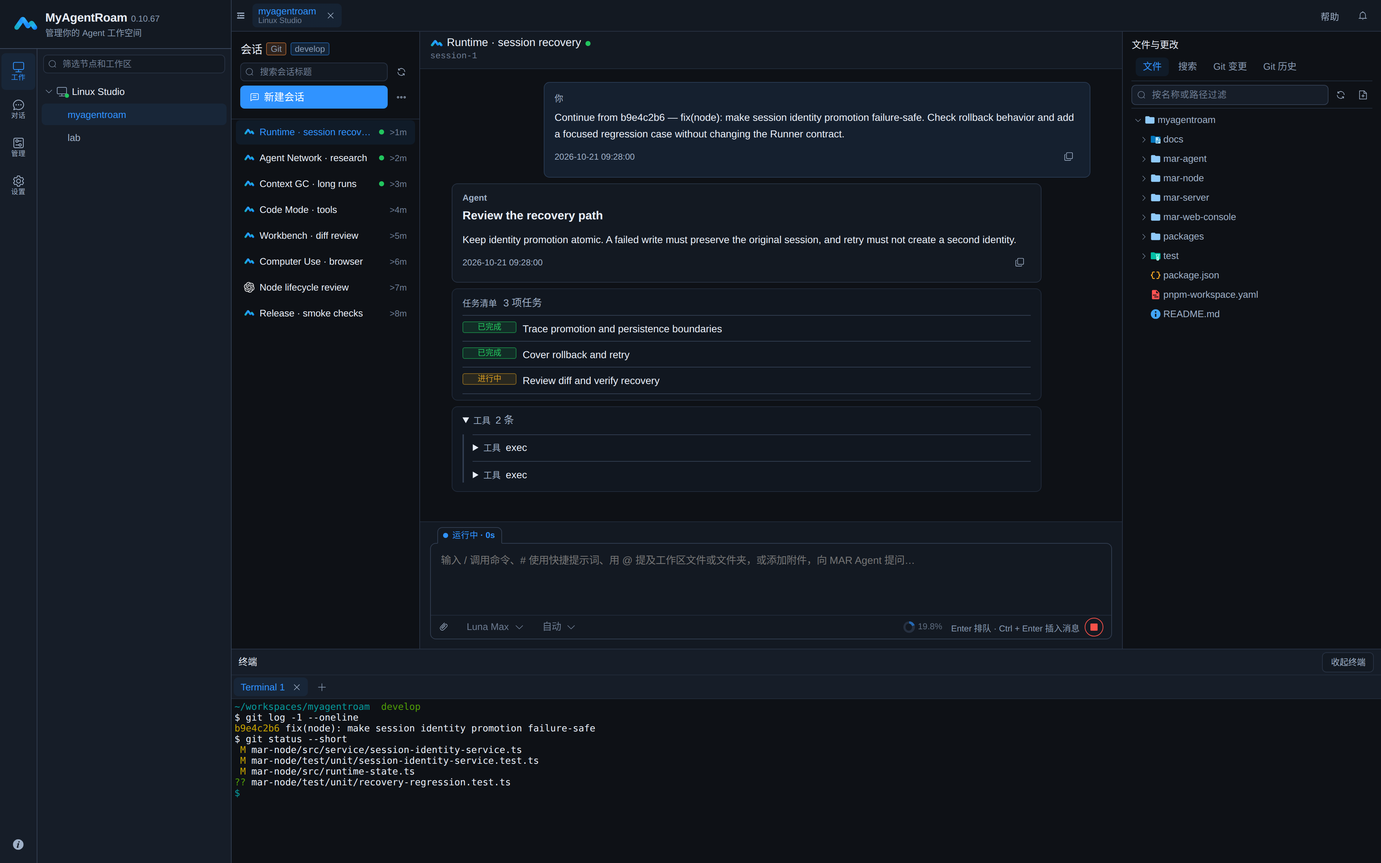
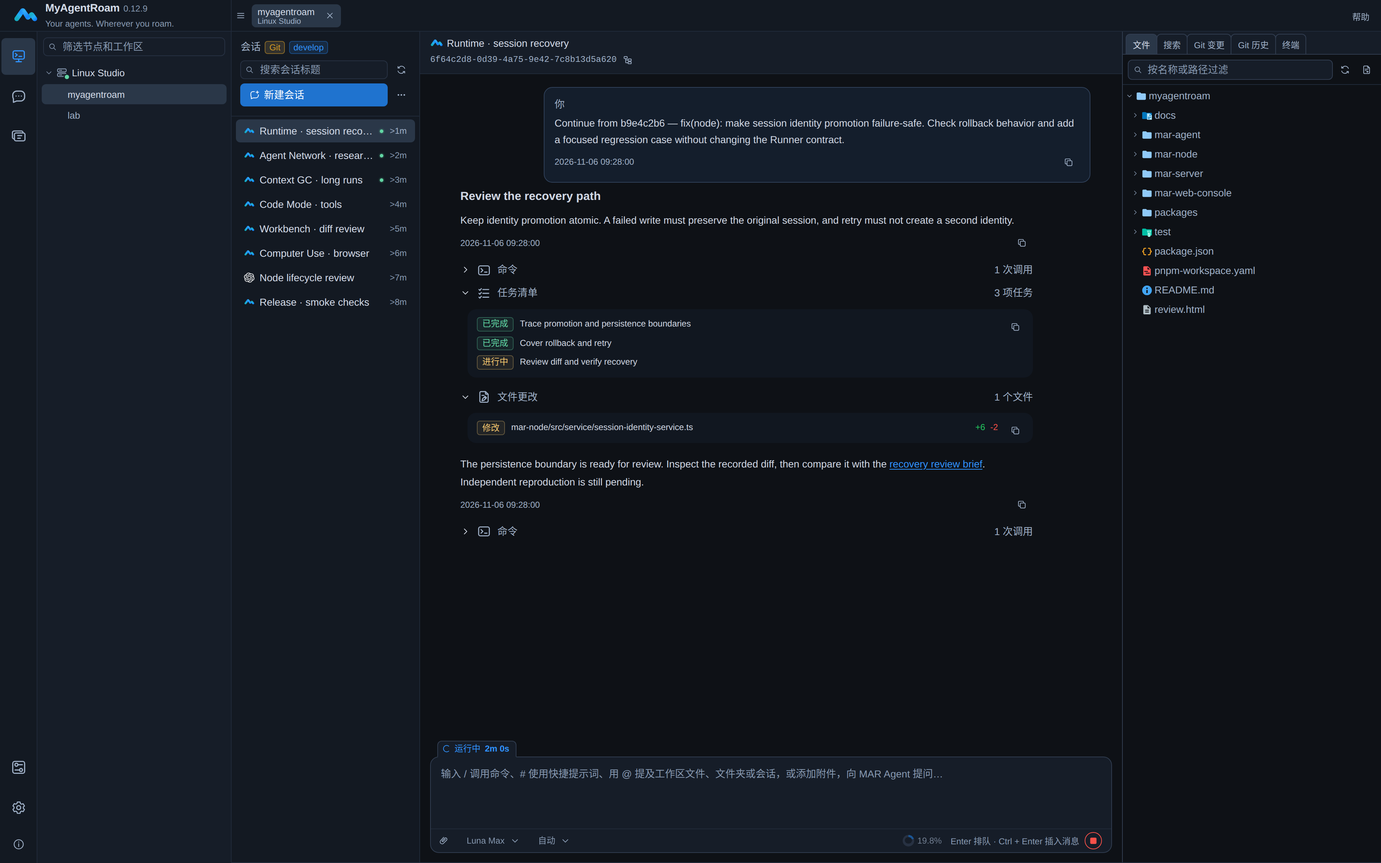
docs: refresh workbench overview and product screenshots

diff --git a/README.md b/README.md
@@ -19,7 +19,9 @@
   <img src="docs/assets/mio.png" width="160" alt="Mio, the MyAgentRoam mascot, welcoming you" />
 </p>
 
-![MyAgentRoam development: MAR Agent sessions, recovery checklist, Git changes, context usage, and a live terminal](docs/assets/workbench-hero.en-US.png)
+![MyAgentRoam workbench: continuous conversation, execution details, a task list, and project Git changes](docs/assets/workbench-hero.en-US.png)
+
+_Product screenshots show the real Web interface with synthetic demo data, not customer sessions, actual task completion records, or performance evidence._
 
 ## Agent First
 
@@ -37,24 +39,27 @@ People define goals and constraints, make key decisions, and review outcomes. Ag
 
 Closing the browser or putting it in the background does not automatically stop an active session on the Node. Use your phone for progress, notifications, files, and short replies; keep complex diffs and long terminal work on desktop. Anywhere access requires connectivity to your self-hosted Server and the relevant Node to be online for live work — it is not offline execution. [Continue from mobile](docs/help/en-US/workbench/mobile.md).
 
+<details>
+<summary>See the conversation and progress on mobile</summary>
+
+<img src="docs/assets/workbench-mobile.en-US.png" width="390" alt="Mobile workbench: session progress, task list, context usage, and Composer" />
+
+</details>
+
 ## Built for more than a single prompt
 
 <table>
 <tr>
-<td width="50%"><strong>Real projects. Real tools.</strong><br />Work in an existing Workspace with its files, dependencies, Git history, and shell. No copy-and-paste development environment.</td>
-<td width="50%"><strong>Multiple Agents. One workbench.</strong><br />MAR Agent, Codex, Claude Code, and OpenCode share one interface for history, live output, and the controls each Runner supports.</td>
+<td width="50%"><strong>Configure once. Continue across devices.</strong><br />Prepare projects and tools on your own Windows, Linux, or macOS Node, then continue from a desktop or mobile browser.</td>
+<td width="50%"><strong>Multiple Agents. One workbench.</strong><br />Read history and live output from MAR Agent, Codex, Claude Code, and OpenCode in one interface. Controls follow each Runner's capabilities.</td>
 </tr>
 <tr>
-<td><strong>Built for sustained work</strong><br />Context GC, Smart Compaction, steer, queues, Code Mode, and subagents help MAR Agent continue beyond a single prompt.</td>
-<td><strong>Steer without starting over</strong><br />Add guidance during execution, queue follow-up work, inspect tool activity, or stop and reassess. Controls follow the selected Runner's capabilities.</td>
+<td><strong>Follow the collaboration</strong><br />Persistent sessions keep their own context. Use the session tree and main/auxiliary surfaces to inspect delegation, progress, and independent review.</td>
+<td><strong>Review the actual results</strong><br />Open files and per-operation diffs from replies. Inspect Git changes, project files, or generated HTML alongside the conversation.</td>
 </tr>
 <tr>
-<td><strong>Agent Network</strong><br />Coordinate independent sessions for research, implementation, and review. Share artifacts, exchange handoffs, and inspect results through marctl.</td>
-<td><strong>Tools and spaces you can reuse</strong><br />Configure models, Skills, and MCP. Start isolated template-based conversations with attachments and deliverable artifacts.</td>
-</tr>
-<tr>
-<td><strong>Your work machines, within reach</strong><br />Use authorized Nodes from a desktop or mobile browser without recreating the project environment on every device. Windows / Linux / macOS.</td>
-<td><strong>Goals and recurring work</strong><br />Use Goal mode for multi-turn continuation, or schedule a session for recurring tasks. Review their permission and execution rules before enabling unattended work.</td>
+<td><strong>Keep long tasks moving</strong><br />MAR Agent uses Context GC, background Compact, Smart Compaction, and Code Mode to manage context and tool work across longer tasks.</td>
+<td><strong>Steer without starting over</strong><br />Add guidance, queue follow-up work, or continue with Goals and schedules. Review permission and execution rules before enabling unattended work.</td>
 </tr>
 </table>
 
@@ -62,7 +67,7 @@ Closing the browser or putting it in the background does not automatically stop 
 
 - **Context GC:** reclaim eligible historical context incrementally so long-running work does not carry every old detail into every model request.
 - **Smart Compaction:** let MAR Agent request background compaction at a suitable work-phase transition; fixed capacity protection remains independent.
-- **Visible context:** inspect reported context usage, compaction status, and plans, with a manual Compact entry when needed. These mechanisms do not promise unlimited, lossless memory.
+- **Visible context:** inspect reported context usage, GC counts and reclaimed-token statistics, compaction status, and plans, with a manual Compact entry when needed. Work can continue during background compaction; these mechanisms do not promise unlimited, lossless memory or fixed cost savings.
 
 ### Keep momentum. Keep the work reviewable.
 
@@ -78,21 +83,29 @@ Closing the browser or putting it in the background does not automatically stop 
 
 Use a coordinator to distribute work, researchers to explore alternatives, and a separate reviewer to challenge results. Sessions work in the same authorized Workspace, exchanging messages and artifacts through the existing MAR environment.
 
-![Agent Network research demo: coordinator, parallel research sessions, shared files, evidence table, and terminal](docs/assets/agent-network.en-US.png)
+![Agent Network: coordinator, independent review, and native collaboration records](docs/assets/agent-network.en-US.png)
 
 _User-defined session roles coordinate work; Agent Network is not a separate orchestration dashboard._
 
-- **Independent sessions** retain their own context and can be revisited across research waves.
+<details>
+<summary>See session relationships and activity</summary>
+
+![Session tree showing the coordinator and research, experiment, review, and evidence sessions](docs/assets/session-tree.en-US.png)
+
+</details>
+
+- **Independent sessions** persist their own history and parent relationships and can be revisited across task turns.
+- **Session trees and two work surfaces** show parents, descendants, and activity. Keep the coordinator on the main surface while inspecting another session in the auxiliary surface.
 - **Explicit handoffs** carry the question, scope, and artifact to inspect; a received message is not proof of completion.
 - **Reviewable work** stays in shared files and visible session histories. Concurrent writers still need non-overlapping scopes.
 
-Agent Network uses **marctl session coordination**. It is distinct from MAR Agent's bounded, non-recursive **subagents** inside one parent execution; neither implies automatic task ownership or a workflow engine. [Coordinate Workspace Sessions](docs/help/en-US/operations/marctl.md#coordinate-workspace-sessions).
+In the product, MAR Agent uses native **`agent_*` collaboration tools** to create, message, inspect, wait for, and stop authorized sessions. Relationships support up to three levels: root, child, and grandchild. Other Runners can coordinate through **marctl**, which also provides on-demand management of models, titles, persistent instructions, and schedules. Session relationships do not expand authorization or imply automatic task ownership or a workflow engine. [Agent collaboration](docs/help/en-US/runners/mar-agent.md#advanced-subagent-control) · [marctl session management](docs/help/en-US/operations/marctl.md#coordinate-workspace-sessions).
 
 ## MAR Agent, inside the workbench or on its own
 
 **Context GC · Smart Compaction · Steer · Code Mode · Subagents · Auto · Skills / MCP**
 
-MAR Agent provides incremental Context GC, session continuation, planning, Skills, MCP, and non-recursive subagents. Its SDK and CLI can also be used independently of Server.
+MAR Agent provides incremental Context GC, session continuation, planning, Skills, MCP, and tool orchestration. Use Agent Network in the workbench, or use the SDK and CLI independently with an optional subagent extension.
 
 The SDK, CLI, and workbench share the same MAR Agent core. Smart Compaction is a **Community capability**, not an Enterprise-only feature. Fixed capacity protection remains independent of model-requested compaction. [Configure MAR Agent](docs/help/en-US/runners/mar-agent.md).
 
@@ -100,31 +113,40 @@ The SDK, CLI, and workbench share the same MAR Agent core. Smart Compaction is a
 
 > **A long-session case study:** approximately **50 hours · 6,364 requests · 75 compactions**. Context GC was estimated to reduce cumulative context input by **20.41%** in this anonymized ERP development session. This is a case-specific observational estimate, not a guarantee of capacity, cost savings, or quality. [Method and limitations](CONTEXT_GC_CASE_STUDY.md).
 
-## Two ways to work
-
-| Start with…              | Use it for…                                                                                                 |
-| ------------------------ | ----------------------------------------------------------------------------------------------------------- |
-| **An existing project**  | Implementing features, investigating bugs, reviewing changes, or coordinating research in a real Workspace. |
-| **A published template** | Starting an isolated hosted conversation with attachments, related files, and deliverable artifacts.        |
-
-### Work mode: keep the project context
+## From execution to reviewable results
 
 Choose an authorized Node and Workspace, create or resume an Agent session, and use the project's files, Git state, and terminal in one workbench. Enterprise sharing lets authorized teammates pick up accessible work without configuring the same environment on every computer.
 
 [Explore sessions](docs/help/en-US/workbench/sessions.md) · [Files](docs/help/en-US/workbench/files.md) · [Git changes](docs/help/en-US/workbench/git-changes.md) · [Web Terminal](docs/help/en-US/workbench/terminal.md)
 
 <details>
-<summary>See the files alongside the conversation</summary>
+<summary>See project files and the auxiliary work surface</summary>
 
-![Project files beside the MAR Agent conversation and terminal](docs/assets/workbench-files.en-US.png)
+![Project file tree and unified auxiliary work surface beside the conversation](docs/assets/workbench-files.en-US.png)
 
 </details>
 
-### Conversation mode: start from a template
+### Inspect the change, not just the final summary
 
-Choose an authorized published template and begin an isolated hosted conversation. Send messages and attachments, work with related files, and retrieve the generated artifacts without first registering a project Workspace. Hosted conversations require a Linux Node with a working Bubblewrap environment; they are not an Enterprise-only capability.
+Supporting MAR Agent Nodes preserve a read-only diff for each `apply_patch` operation, including files and added/removed line counts. Later edits do not change that recorded result. This is not the task's net change and does not cover arbitrary shell writes. Use Git changes and history to inspect the current project state.
 
-[Explore hosted conversations](docs/help/en-US/workbench/hosted-conversations.md)
+<details>
+<summary>See a file change under review</summary>
+
+![Read-only diff showing the added and removed lines from one tool operation](docs/assets/workbench-review.en-US.png)
+
+</details>
+
+### Inspect deliverables beside the conversation
+
+The file window supports code and text, images, PDFs, modern Office documents, and common audio/video formats. Text editing, find, and symbol navigation follow Node capabilities. Preview saved Workspace HTML in the auxiliary browser while retaining source drafts. HTML can run scripts: preview only trusted content. This is not an isolated general-purpose browser or a full IDE. [Files and previews](docs/help/en-US/workbench/files.md) · [Per-operation changes](docs/help/en-US/workbench/conversation.md#inspect-this-file-change).
+
+<details>
+<summary>See an HTML deliverable preview</summary>
+
+![Workspace HTML deliverable preview beside the Agent conversation](docs/assets/workbench-preview.en-US.png)
+
+</details>
 
 ## Get started
 
@@ -138,7 +160,7 @@ Start with the blank-secret [Compose environment template](.env.example); config
 4. [Register a Workspace](docs/help/en-US/getting-started/register-workspace.md) and [configure MAR Agent](docs/help/en-US/runners/mar-agent.md), or prepare your chosen external Agent under the Node service account.
 5. [Start your first Agent session](docs/help/en-US/getting-started/first-agent-session.md). Confirm that the Node is online, files open, and the Agent responds.
 
-After deployment, the same site serves the home page at `/`, the workbench at `/console`, and bilingual help at `/docs/`.
+After deployment, open `/` to enter the workbench (`/console`); `/docs/` serves bilingual help.
 
 ### Self-hosted, with explicit data boundaries
 
@@ -161,7 +183,7 @@ Your Windows / Linux / macOS Node
        └── MAR Agent · Codex · Claude Code · OpenCode
 ```
 
-Server handles identity, authorization, and controlled relay. Node owns execution and Workspace storage. Ordinary Workspace files and terminals may use a Server-authorized direct data channel; hosted conversations stay relayed. [Components and data boundaries](docs/help/en-US/concepts/architecture.md).
+Server handles identity, authorization, and controlled relay. Node owns execution and Workspace storage. Ordinary Workspace files and terminals may use a Server-authorized direct data channel. [Components and data boundaries](docs/help/en-US/concepts/architecture.md).
 
 </details>
 
@@ -172,7 +194,6 @@ There is one source tree, build, and deployment baseline. Activation changes the
 | Capability                                                                  | Community           | Enterprise activation              |
 | --------------------------------------------------------------------------- | ------------------- | ---------------------------------- |
 | Workspace sessions, files, Git, terminals, and personal configuration       | Available           | Available                          |
-| Personal templates and internal hosted conversations                        | Available           | Available                          |
 | Organizations, multi-user administration, roles, and shared-resource grants | Requires activation | Available within the license scope |
 | Enterprise SSO and operation auditing                                       | Requires activation | Available within the license scope |
 

diff --git a/docs/help/workbench/mobile.md b/docs/help/workbench/mobile.md
@@ -1,15 +1,17 @@
 ---
 title: 在移动端继续工作
-lastUpdated: 2026-11-05
+lastUpdated: 2026-11-06
 ---
 
 # 在移动端继续工作
 
 会话标题栏的“更多”统一打开辅助工作面，并恢复当前工作区上次激活的标签；文件、搜索、Git 和终端均在其中选择，不再分别提供文件、终端按钮。辅助工作面覆盖顶栏以下的区域，使用返回按钮或浏览器返回可回到会话而不结束终端；重新打开时保留原有终端标签。需要结束进程时显式关闭终端标签。
 
-移动端适合查看会话、通知、文件和简短回复。顶部保留品牌 Logo，以及“工作”“对话”“最近会话”“管理”“设置”“文档”和通知入口；使用支持悬浮提示的设备指向 Logo 时可查看品牌名称和版本。点击非当前的“工作”或“对话”只切换模式并恢复已有内容，不自动打开资源树或历史菜单；没有已选内容时显示已有空态。再次点击当前“工作”可展开或收起 Node → Workspace 资源树，再次点击当前“对话”可展开或收起历史抽屉。管理和设置保留既有分类菜单行为，文件面板从会话标题栏的“更多”进入辅助工作面后选择。
+移动端适合查看会话、通知、文件和简短回复。顶部保留品牌 Logo，以及“工作”“对话”“会话与通知”“管理”“设置”和文档入口；使用支持悬浮提示的设备指向 Logo 时可查看品牌名称和版本。点击非当前的“工作”或“对话”只切换模式并恢复已有内容，不自动打开资源树或历史菜单；没有已选内容时显示已有空态。再次点击当前“工作”可展开或收起 Node → Workspace 资源树，再次点击当前“对话”可展开或收起历史抽屉。管理和设置保留既有分类菜单行为，文件面板从会话标题栏的“更多”进入辅助工作面后选择。
 
-“最近会话”和通知复用“工作 / 管理 / 设置”的侧边菜单面板，点击入口即可展开可滚动的列表。顶栏菜单不另设 X 关闭按钮，点击遮罩、按 Escape 或再次点击已展开的入口可收起；浏览器返回（包括手机浏览器侧滑返回）也会优先收起菜单，不离开当前工作面。切换菜单入口不会叠加面板；切换工作或对话模式会收起已有菜单。有未读通知时保留“全部标记已读”操作；打开通知列表本身不会将全部通知标记已读。新通知的短暂预览不会自动打开完整面板，也不会把通知标记为已读。
+“会话与通知”统一打开包含“最近会话”和“通知”两个页面的自定义面板，不再保留独立铃铛；图标右上数字表示未读通知，右下绿点表示有普通会话正在运行。有未读通知时默认打开“通知”，否则打开“最近会话”。可点击图标或使用 `Ctrl/Cmd+Shift+E` 开合，点击外部或按 Escape 也可关闭，不响应悬停开合。
+
+工作、管理和设置等顶栏菜单不另设 X 关闭按钮，点击遮罩、按 Escape 或再次点击已展开的入口可收起；浏览器返回（包括手机浏览器侧滑返回）也会优先收起菜单，不离开当前工作面。切换菜单入口不会叠加面板；切换工作或对话模式会收起已有菜单。有未读通知时保留“全部标记已读”操作；打开通知列表本身不会将全部通知标记已读。新通知的短暂预览不会自动打开完整面板，也不会把通知标记为已读。
 
 浏览器返回也会优先关闭当前会话列表、文件或终端工具层，以及最上层文件、图片预览或任务弹窗，保留背后的工作面。编辑中的退出继续遵循该界面的原有提示；若出现放弃修改确认，再次返回会取消确认并保留修改。关闭预览不会下载或删除文件，收起终端不会结束进程。图库横滑、图片缩放和内容横向滚动不是返回操作；系统文件选择器等浏览器原生界面仍由系统处理。
 

diff --git a/docs/help/en-US/workbench/mobile.md b/docs/help/en-US/workbench/mobile.md
@@ -1,13 +1,15 @@
 ---
 title: Continue on Mobile
-lastUpdated: 2026-11-05
+lastUpdated: 2026-11-06
 ---
 
 # Continue on Mobile
 
 Mobile Workbench keeps the current Agent conversation as the main Work surface. Selecting **Work** or **Chat** when that mode is not active switches modes and restores the existing content without opening a resource or history menu. If nothing is selected, the existing empty state is shown. Selecting the active **Work** entry toggles the Node → Workspace resource tree; selecting the active **Chat** entry toggles its history drawer. Admin and Settings retain their existing category-menu behavior. Select **More** in the conversation title bar to reopen the auxiliary work surface at its last active tab. Choose Files, Search, Git, or Terminal within that surface instead of separate title-bar buttons.
 
-**Recent Sessions** and **Notifications** open a scrolling list directly in the side menu used by Work, Admin and Settings. Top-bar menus have no additional X close button; use the scrim, Escape, or the active top-bar entry to dismiss them. Browser Back, including the browser's edge-swipe back gesture, closes the menu before leaving the current work surface. Switching menu entries replaces the current panel rather than stacking panels; switching to Work or Chat closes existing menus. **Mark all as read** remains available when there are unread notifications. Opening the list alone does not mark all notifications read. Brief previews of new notifications do not automatically open the full panel or mark notifications read.
+The **Sessions & notifications** icon opens one custom panel with separate **Recent Sessions** and **Notifications** tabs; there is no separate bell. Its upper-right number counts unread notifications, and its lower-right green dot indicates running workspace sessions. Each opening starts on Notifications when unread notifications exist, or Recent Sessions otherwise. Click or tap the icon, or use `Ctrl/Cmd+Shift+E`, to toggle it; click outside or press Escape to close. Hovering does not open or close it.
+
+Other top-bar menus, such as Work, Admin, and Settings, have no additional X close button; use the scrim, Escape, or the active top-bar entry to dismiss them. Browser Back, including the browser's edge-swipe back gesture, closes the menu before leaving the current work surface. Switching menu entries replaces the current panel rather than stacking panels; switching to Work or Chat closes existing menus. **Mark all as read** remains available when there are unread notifications. Opening the list alone does not mark all notifications read. Brief previews of new notifications do not automatically open the full panel or mark notifications read.
 
 Browser Back also dismisses the current session, file or terminal tool layer, or the topmost file/image preview or task dialog, keeping the underlying work surface. Editing follows the existing close policy. If a discard confirmation appears, Back cancels that confirmation and preserves the edits. Closing a preview does not download or delete a file, and hiding Terminal does not end its process. Gallery navigation, image zoom and horizontal content scrolling are not back gestures. Native browser or system dialogs retain their own behavior.
 

diff --git a/docs/help/en-US/getting-started/overview.md b/docs/help/en-US/getting-started/overview.md
@@ -22,7 +22,7 @@ Browsers authenticate and obtain authorization through Server, while each Node o
 
 ## Interface Language
 
-Console and the documentation center use the language saved in the current browser. The independent marketing website has a separate language preference. Opening documentation from Console takes you to the matching language. When you sign in or return to Console, the browser's language is synchronized to your account and used for notifications created afterward; changing the language in Settings also updates the account preference. A notification keeps the final text generated when it was created, so later language changes do not rewrite it. Switching languages in the documentation center opens the matching version of the current page; a direct documentation link takes precedence over the saved language.
+Console and the documentation center use the language saved in the current browser. Opening documentation from Console takes you to the matching language. When you sign in or return to Console, the browser's language is synchronized to your account and used for notifications created afterward; changing the language in Settings also updates the account preference. A notification keeps the final text generated when it was created, so later language changes do not rewrite it. Switching languages in the documentation center opens the matching version of the current page; a direct documentation link takes precedence over the saved language.
 
 ## Installation, interface caching, and updates
 

diff --git a/docs/help/en-US/getting-started/server-installation.md b/docs/help/en-US/getting-started/server-installation.md
@@ -1,6 +1,6 @@
 ---
 title: Deploy MyAgentRoam Server and Web
-lastUpdated: 2026-10-29
+lastUpdated: 2026-11-06
 ---
 
 # Deploy MyAgentRoam Server and Web
@@ -11,7 +11,7 @@ The public product repository's single root `compose.yaml` runs MySQL, SearXNG, 
 
 There is one source, build, and deployment baseline, using `mar-server/`, `mar-web-console/`, and the root `compose.yaml`. Without activation it is Community, with Workspace sessions, files, Git, terminals, model and credential management, Skill/MCP configuration, personal templates, and hosted conversations. A valid Enterprise license enables organizations, users, sharing, SSO, and auditing in the same installation without replacing images.
 
-Both license states use `/console` for the workbench and `/docs/` for documentation. Existing links to `/` keep working: the browser opens the same product at `/console`, preserving query parameters and fragments without redirecting to the marketing website. Verify sign-in and a Workspace operation rather than treating `/health` alone as proof that the full workbench is usable.
+Both license states use `/console` for the workbench and `/docs/` for documentation. Existing links to `/` keep working: the browser opens the same product at `/console`, preserving query parameters and fragments. Verify sign-in and a Workspace operation rather than treating `/health` alone as proof that the full workbench is usable.
 
 ## Procedure
 

diff --git a/docs/help/getting-started/server-installation.md b/docs/help/getting-started/server-installation.md
@@ -1,6 +1,6 @@
 ---
 title: 部署 MyAgentRoam Server 与 Web
-lastUpdated: 2026-10-29
+lastUpdated: 2026-11-06
 ---
 
 # 部署 MyAgentRoam Server 与 Web
@@ -11,7 +11,7 @@ lastUpdated: 2026-10-29
 
 产品只有一套源码、构建和部署，入口为 `mar-server/`、`mar-web-console/` 和根 `compose.yaml`。未激活时显示社区版，提供工作区会话、文件、Git、终端、模型与凭据管理、Skill/MCP，以及个人模板和托管对话；有效企业 License 在同一安装中启用组织、用户、共享授权、SSO 和审计，无需更换镜像。
 
-两种授权状态都使用 `/console` 工作台和 `/docs/` 文档中心。原有指向 `/` 的链接继续可用，浏览器在产品内进入 `/console`，保留查询参数与片段，不跳转营销网站。部署后应验证实际登录和一次工作区操作，不能仅凭 `/health` 成功判断完整工作台已可用。
+两种授权状态都使用 `/console` 工作台和 `/docs/` 文档中心。原有指向 `/` 的链接继续可用，浏览器在产品内进入 `/console`，保留查询参数与片段。部署后应验证实际登录和一次工作区操作，不能仅凭 `/health` 成功判断完整工作台已可用。
 
 ## 前置条件
 
